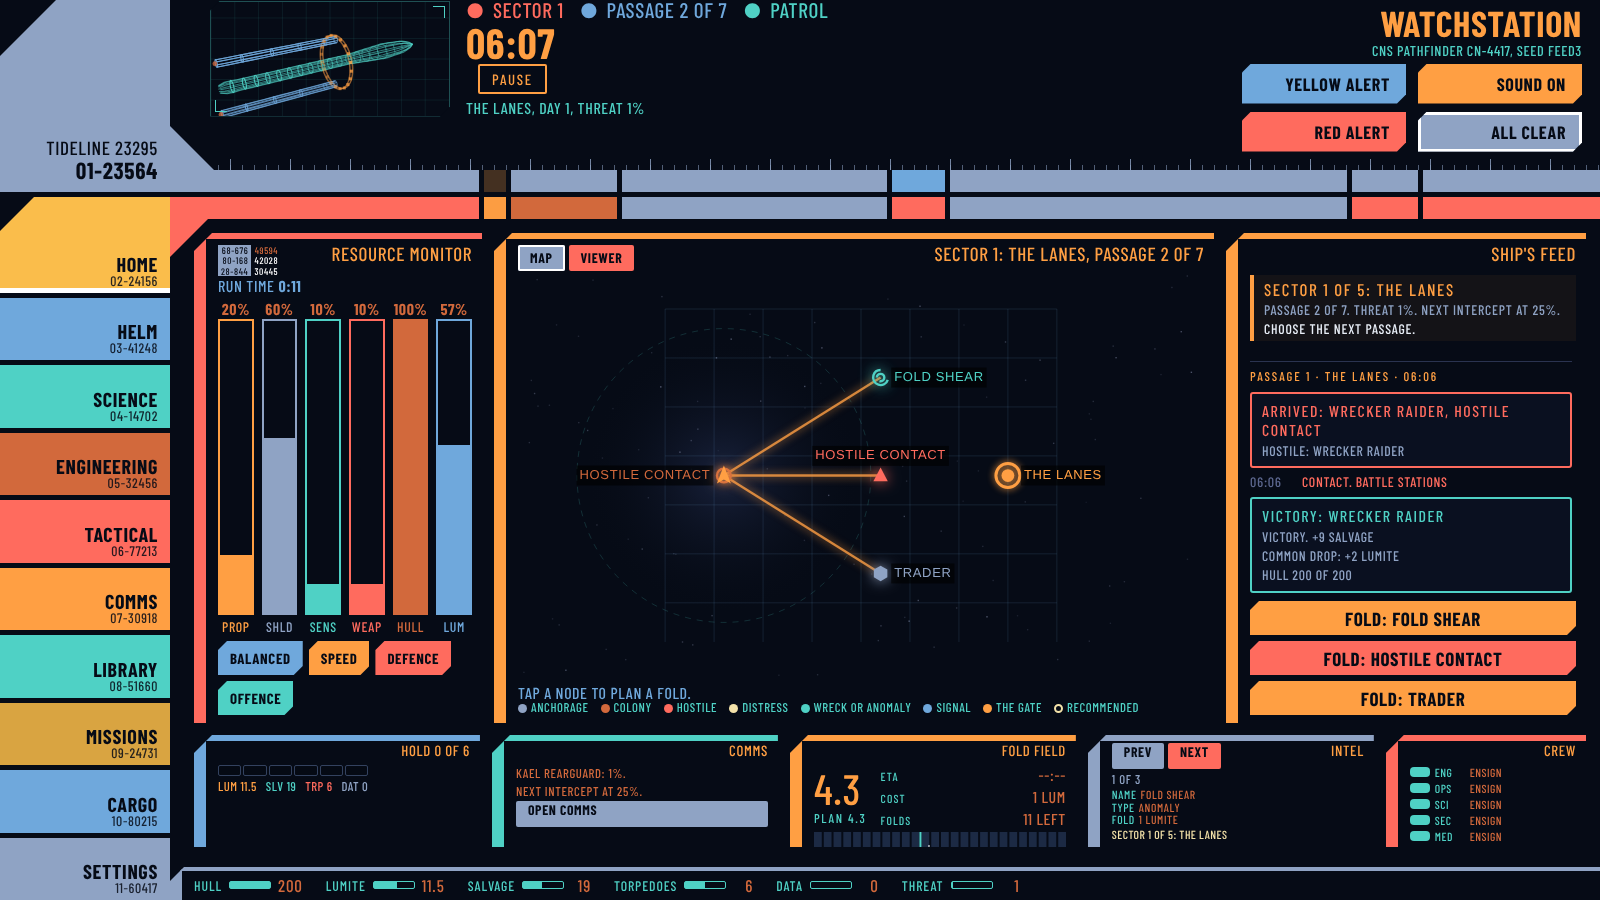
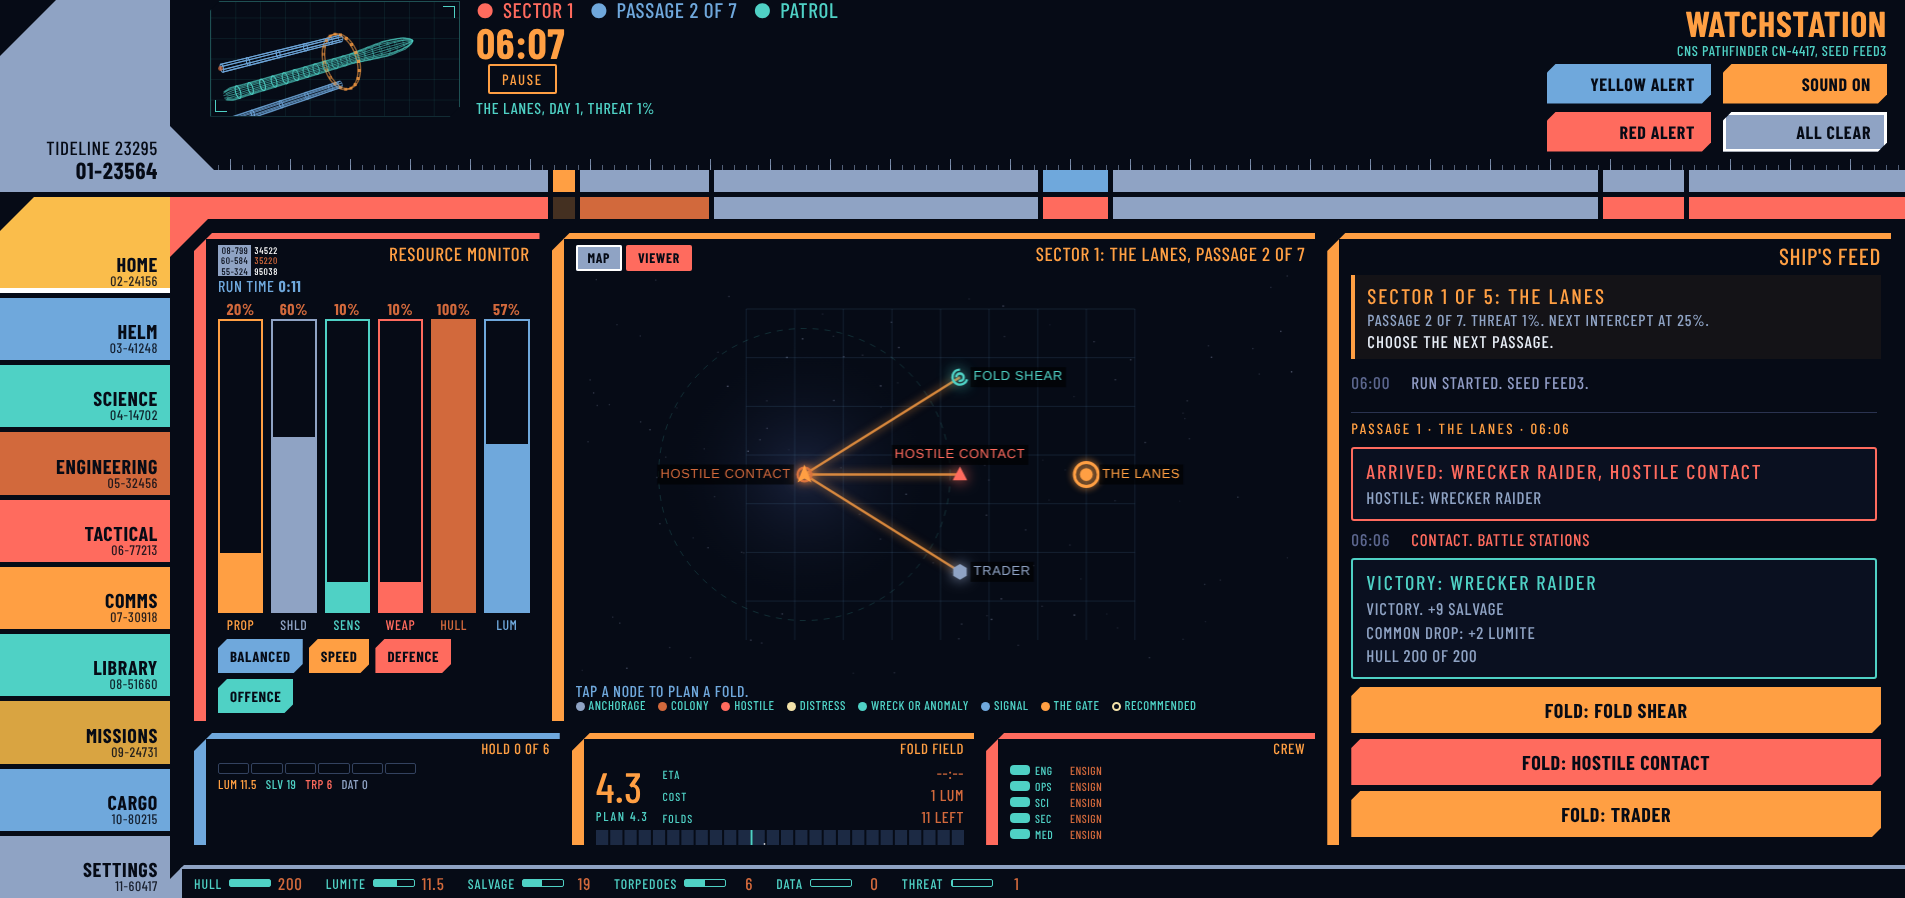
Feed: full-height right column, larger type
In a Run the feed spans both Home rows; the lower row (hold, fold field, crew)
sits beside it. Comms and Intel tiles and the bottom ship log are hidden in a
Run because the feed and map card carry what they said.

Claude-Session: https://claude.ai/code/session_01BPxdb1pK2me954aFGayFRQ

diff --git a/dist/index.html b/dist/index.html
@@ -964,6 +964,27 @@ button:focus-visible,input:focus-visible,.panel:focus-visible{outline-offset:-4p
 .fd-dock{flex:none;display:flex;flex-direction:column;gap:6px}
 .fd-dock .btn{width:100%}
 @media (max-width:700px){.p-feed .fd-stream{max-height:55vh}}
+
+/* ---- the feed, prominent (playtest feedback 2026-11-08): it owns the whole right side in a Run ---- */
+body.r2feed #home{grid-template-columns:minmax(0,.95fr) minmax(0,2.1fr) minmax(0,1.55fr)}
+body.r2feed .p-col3{grid-row:1/3}
+body.r2feed .ambient{grid-column:1/3;grid-template-columns:minmax(0,1fr) minmax(0,1.1fr) minmax(0,.9fr)!important}
+body.r2feed .ambient .p-comms,body.r2feed .ambient .p-cat{display:none}   /* the feed and the map card carry what these said */
+body.r2feed #ob-toggle,body.r2feed #oplog{display:none}                   /* the bottom log duplicated the feed */
+body.r2feed .p-feed .ph h3{font-size:calc(22px*var(--tsh,1))}
+body.r2feed .fd-now{padding:8px 12px}
+body.r2feed .fd-now b{font-size:calc(20px*var(--ts,1))}
+body.r2feed .fd-now p{font-size:calc(15px*var(--ts,1))}
+body.r2feed .fd-now .fd-sit{font-size:calc(16px*var(--ts,1))}
+body.r2feed .fd-stream{gap:8px}
+body.r2feed .fd-div{font-size:calc(14px*var(--ts,1))}
+body.r2feed .fd-sys{grid-template-columns:52px 1fr;font-size:calc(16px*var(--ts,1));line-height:1.35}
+body.r2feed .fd-card{padding:10px 13px;border-width:2px}
+body.r2feed .fd-card h5{font-size:calc(19px*var(--ts,1))}
+body.r2feed .fd-card p{font-size:calc(16px*var(--ts,1));line-height:1.35}
+body.r2feed .fd-fold{font-size:calc(14px*var(--ts,1));padding:3px 12px}
+body.r2feed .fd-dock .btn{font-size:calc(19px*var(--ts,1));min-height:46px}
+@media (max-width:1000px){body.r2feed .p-col3{grid-row:auto}body.r2feed .ambient{grid-column:auto}}
 </style>
 </head>
 <body>

diff --git a/src/styles/run.css b/src/styles/run.css
@@ -193,3 +193,24 @@
 .fd-dock{flex:none;display:flex;flex-direction:column;gap:6px}
 .fd-dock .btn{width:100%}
 @media (max-width:700px){.p-feed .fd-stream{max-height:55vh}}
+
+/* ---- the feed, prominent (playtest feedback 2026-11-08): it owns the whole right side in a Run ---- */
+body.r2feed #home{grid-template-columns:minmax(0,.95fr) minmax(0,2.1fr) minmax(0,1.55fr)}
+body.r2feed .p-col3{grid-row:1/3}
+body.r2feed .ambient{grid-column:1/3;grid-template-columns:minmax(0,1fr) minmax(0,1.1fr) minmax(0,.9fr)!important}
+body.r2feed .ambient .p-comms,body.r2feed .ambient .p-cat{display:none}   /* the feed and the map card carry what these said */
+body.r2feed #ob-toggle,body.r2feed #oplog{display:none}                   /* the bottom log duplicated the feed */
+body.r2feed .p-feed .ph h3{font-size:calc(22px*var(--tsh,1))}
+body.r2feed .fd-now{padding:8px 12px}
+body.r2feed .fd-now b{font-size:calc(20px*var(--ts,1))}
+body.r2feed .fd-now p{font-size:calc(15px*var(--ts,1))}
+body.r2feed .fd-now .fd-sit{font-size:calc(16px*var(--ts,1))}
+body.r2feed .fd-stream{gap:8px}
+body.r2feed .fd-div{font-size:calc(14px*var(--ts,1))}
+body.r2feed .fd-sys{grid-template-columns:52px 1fr;font-size:calc(16px*var(--ts,1));line-height:1.35}
+body.r2feed .fd-card{padding:10px 13px;border-width:2px}
+body.r2feed .fd-card h5{font-size:calc(19px*var(--ts,1))}
+body.r2feed .fd-card p{font-size:calc(16px*var(--ts,1));line-height:1.35}
+body.r2feed .fd-fold{font-size:calc(14px*var(--ts,1));padding:3px 12px}
+body.r2feed .fd-dock .btn{font-size:calc(19px*var(--ts,1));min-height:46px}
+@media (max-width:1000px){body.r2feed .p-col3{grid-row:auto}body.r2feed .ambient{grid-column:auto}}

diff --git a/README.md b/README.md
@@ -75,6 +75,7 @@ The balance bot is simple: it fires the most accurate ready weapon, braces other
 - The stream replaces the header ship log. Every ship message lands there with its ship time, and four or more routine lines in a row fold into "ship notes".
 - Cards mark the key moments: passage and sector dividers, arrival at each contact, intercepts, and every fight result (outcome, drop, promotions, losses, hull).
 - The stream is saved with the Run (R.vox, last 160 entries).
+- The feed owns the full right column, top to bottom, with larger type. The Comms and Intel tiles and the bottom ship log are hidden in a Run, since the feed and the map card carry what they said.
 - Still to come: officer voices (step 6), per-round combat cards (step 5), the Library history view.
 
 ## History
